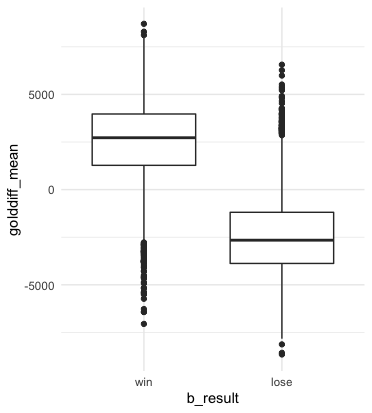
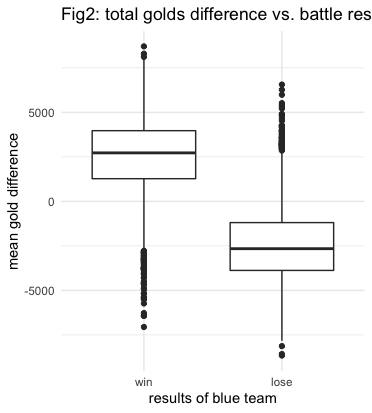
change the visualization rmd

diff --git a/data_source.html b/data_source.html
@@ -431,7 +431,7 @@ div.tocify {
   ggplot(aes(x = b_result, y = outer_mean_diff)) + 
   geom_boxplot() +
   labs(
-    title = &quot;time length of destroying enemy&#39;s towers vs. battle reuslts&quot;, 
+    title = &quot;Fig1: time length of destroying enemy&#39;s towers vs. battle reuslts&quot;, 
     x = &quot;results of blue team&quot;,
     y = &quot;mean time difference of destroying towers&quot;
   )</code></pre>
@@ -466,7 +466,7 @@ gold_ave =
   ggplot(aes(x = b_result, y = golddiff_mean)) + 
   geom_boxplot() +
   labs(
-    title = &quot;total golds difference vs. battle results&quot;,
+    title = &quot;Fig2: total golds difference vs. battle results&quot;,
     x = &quot;results of blue team&quot;, 
     y = &quot;mean gold difference&quot;
   )</code></pre>
@@ -494,8 +494,7 @@ monster[is.na(monster)] = 0</code></pre>
 <p>merge</p>
 <pre class="r"><code>merge_file = left_join(merge_file, monster, by = &quot;address&quot;)</code></pre>
 <p>visualizations</p>
-<pre class="r"><code>plot_only = 
-  merge_file %&gt;% 
+<pre class="r"><code>merge_file %&gt;% 
   janitor::clean_names() %&gt;% 
   pivot_longer(
     baron_nashor:fire_dragon,
@@ -506,7 +505,13 @@ monster[is.na(monster)] = 0</code></pre>
   summarize(number = sum(number, na.rm = TRUE)) %&gt;% 
   ggplot(aes(x = neutral_monster, y = number, fill = b_result)) + 
   geom_bar(stat = &quot;identity&quot;, position = position_dodge()) + 
-  coord_flip()</code></pre>
+  coord_flip() + 
+  labs(
+    title = &quot;Fig3: numbers of killing neutral monsters vs. battle results&quot;,
+    x = &quot;numbers of kills&quot;,
+    y = &quot;type of neutral monsters&quot;
+  )</code></pre>
+<p><img src="data_source_files/figure-html/unnamed-chunk-11-1.png" width="90%" /></p>
 <pre class="r"><code>origin_df = read_csv(&quot;./data/LeagueofLegends.csv&quot;) %&gt;% janitor::clean_names()
 
 blank_theme &lt;- theme_minimal() +
@@ -554,7 +559,7 @@ origin_df %&gt;%
     values_from = &quot;n&quot;) %&gt;%
   mutate(diff = bKills - rKills)
 ## merge kills to merge_file.csv
-merge_file &lt;- left_join(merge_file,kills,by=&quot;address&quot;)
+merge_file &lt;- left_join(merge_file,kills,by = &quot;address&quot;)
 ## relevel b_results
 merge_file &lt;- merge_file %&gt;% 
   mutate(b_result = relevel(b_result,&quot;lose&quot;))</code></pre>
@@ -564,7 +569,11 @@ merge_file &lt;- merge_file %&gt;%
 <p><img src="data_source_files/figure-html/unnamed-chunk-14-1.png" width="90%" /></p>
 <pre class="r"><code>merge_file %&gt;%  ggplot((aes(x = b_result,y = diff,group = b_result))) +
   geom_boxplot() +
-  coord_flip()</code></pre>
+  labs(
+    title = &quot;Fig4: the mean killing difference vs. battle result&quot;,
+    x = &quot;results of blue team&quot;,
+    y = &quot;mean killing difference&quot;
+  )</code></pre>
 <p><img src="data_source_files/figure-html/unnamed-chunk-14-2.png" width="90%" /></p>
 <pre class="r"><code>merge_file %&gt;% ggplot(aes(x = diff,y = b_result)) + 
   geom_point(alpha = 0.5) +

diff --git a/index.html b/index.html
@@ -397,14 +397,7 @@ div.tocify {
 <div id="important-indicators-and-explanations" class="section level2">
 <h2>Important Indicators and Explanations</h2>
 <ul>
-<<<<<<< HEAD
-<li><p><strong>Kills</strong> Killing is a very important player behavior in League of Legends games. To be more specific, the killing can be interpreted as your controlled player, called champion in this game, kills enemy’s champion or is killed by enemy’s. It just like the Pokémon you used in the Pokémon game, which is defeated by the opponent’s Pokémon. Killing has a huge potential impact on the progress of the game. On the one hand, killing behavior will bring money to your team, so that you have more money to buy powerful equipments to make your champions stronger. On the other hand, killed enemy’s champions will enter resurrection time and they will not be able to act during resurrection time.</p></li>
-<li><p><strong>Tower</strong> The way to win the League of Legends game is to destroy the opponent’s “Nexus base”. However, before reaching the “Nexus base”, your team should take down towers in order to reveal the “Nexus base”. “Nexus base” cannot be attacked before some of the towers have fallen. Also, destroying the tower can bring more money and map control to your side, which is crucial to the win.</p></li>
-<li><p><strong>Monsters</strong> There are many neutral monsters in the game map. After killing certain monsters, you will get both monetary rewards and additional special effect gains, called buff in the game. Dragon (with 5 different types), Rift Herald and Baron Nashor are the three of the most important monsters.</p></li>
-<li><p><strong>Glods</strong> Glod is the name of money in the game. It enables players to buy powerful equipments for champions they controlled. There are many ways to earn Glod in the game, such as the ones mentioned above: killing, taking down towers and killing netural monsters. A gold lead will give your team a huge game advantage, which will drive your team to victory.</p></li>
-=======
 <li><strong>Kills</strong></li>
->>>>>>> a5d229b82bb167a8478cff0a59b19e1fb3d3441b
 </ul>
 <p>Killing is a very important player behavior in League of Legends games. To be more specific, the killing can be interpreted as your controlled player, called champion in this game, kills enemy’s champion or is killed by enemy’s. It just like the Pokémon you used in the Pokémon game, which is defeated by the opponent’s Pokémon. Killing has a huge potential impact on the progress of the game. On the one hand, killing behavior will bring money to your team, so that you have more money to buy powerful equipments to make your champions stronger. On the other hand, killed enemy’s champions will enter resurrection time and they will not be able to act during resurrection time.</p>
 <ul>

diff --git a/visualization.html b/visualization.html
@@ -377,34 +377,25 @@ div.tocify {
 </div>
 
 
-<<<<<<< HEAD
-<div class="figure">
-<img src="outer_mean_diff.png" />
-
-</div>
-<p>Variable outer_mean_diff represents the difference of average time destroying the enemy’s three outer towes between blue and red team (i.e. outer_mean_diff = average time blue team used - average time red team used). And vairable b_result, encoded as win versus lose, represents the battle results of the blue team. From the boxplot above, we expect that the blue team has a greater chance to win the game when the difference is negative, meaning the blue team takes less average time to destory the red team’s outer towers.</p>
-<div class="figure">
-<img src="gold_diff.png" />
-
-</div>
-<p>Variable golddiff_mean represents the average monetary difference in every minute during the game between blue and red team (blue-red). From the boxplot, we expect that the blue team has a greater chance to win when the team has more golds in average.</p>
-<div class="figure">
-<img src="kills_diff.png" />
-
-</div>
-<div class="figure">
-<img src="monster_diff.png" />
-
-</div>
-=======
+<div id="fig-1" class="section level2">
+<h2>Fig 1</h2>
 <p><img src="outer_mean_diff.png" /></p>
 <p>Variable outer_mean_diff represents the difference of average time destroying the enemy’s three outer towers between blue and red team (i.e. outer_mean_diff = average time blue team used - average time red team used). And vairable b_result, encoded as win versus lose, represents the battle results of the blue team. From the boxplot above, we expect that the blue team has a greater chance to win the game when the difference is negative, meaning the blue team takes less average time to destory the red team’s outer towers.</p>
+</div>
+<div id="fig-2" class="section level2">
+<h2>Fig 2</h2>
 <p><img src="gold_diff.png" /></p>
 <p>Variable golddiff_mean represents the average monetary difference in every minute during the game between blue and red team (blue-red). From the boxplot, we expect that the blue team has a greater chance to win when the team has more golds in average.</p>
-<p><img src="kills_diff.png" /></p>
-<p>Variable</p>
+</div>
+<div id="fig-3" class="section level2">
+<h2>Fig 3</h2>
 <p><img src="monster_diff.png" /></p>
->>>>>>> a5d229b82bb167a8478cff0a59b19e1fb3d3441b
+<p>In this figure, we try to explore which neutral monsters have a higher effects in contributing to the battle results. The largest difference exists in the kills of baron_nashor.</p>
+</div>
+<div id="fig-4" class="section level2">
+<h2>Fig 4</h2>
+<p><img src="kills_diff.png" /></p>
+</div>
 
 
 
